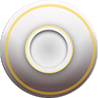
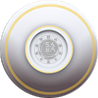
update plate for sedie and baucua

diff --git a/src/components/games/fish-prawn-crab/fish-prawn-crab-result/fish-prawn-crab-result.module.scss b/src/components/games/fish-prawn-crab/fish-prawn-crab-result/fish-prawn-crab-result.module.scss
@@ -73,12 +73,11 @@
 .result-plate {
     position: absolute;
     z-index: 1;
-    width: 13.2rem;
-    height: 13.2rem;
-    border-radius: 50%;
+    width: 13.3rem;
+    height: 12.7rem;
     left: calc(50% - 6.6rem);
     top: calc(50% + 6.6rem);
-    background: #52a99d url("/static/images/fpc-plate.png");
+    background: url("/static/images/sedie-plate.png");
     background-size: 100%;
     background-repeat: no-repeat;
     background-position: center;
@@ -89,8 +88,8 @@
     z-index: 2;
     width: 9.8rem;
     height: 9.8rem;
-    left: calc(50% - 4.9rem);
-    top: calc(50% + 8.3rem);
+    left: calc(50% - 4.8rem);
+    top: calc(50% + 8rem);
     pointer-events: none;
     background: url("/static/images/fpc-bowl.png") no-repeat center;
     background-size: 100%;
@@ -112,9 +111,9 @@
 
 .result-1 {
     position: absolute;
-    left: 33px;
+    left: 36px;
     top: 32px;
-    transform: rotate(3deg);
+    transform: rotate(3.36deg);
 }
 
 .result-2 {
@@ -126,7 +125,7 @@
 
 .result-3 {
     position: absolute;
-    left: 33px;
+    left: 36px;
     top: 67px;
     transform: rotate(-2deg);
 }

diff --git a/src/components/shared/countdown-timer/countdown-timer.tsx b/src/components/shared/countdown-timer/countdown-timer.tsx
@@ -31,6 +31,7 @@ const CountdownTimer: React.FC = () => {
         isPlaying: true,
         size: 40,
         strokeWidth: 4,
+        trailColor: "#fff",
         trailStrokeWidth: 2,
         initialRemainingTime: remainingTime,
         duration: getTimerDuration(gameState),
